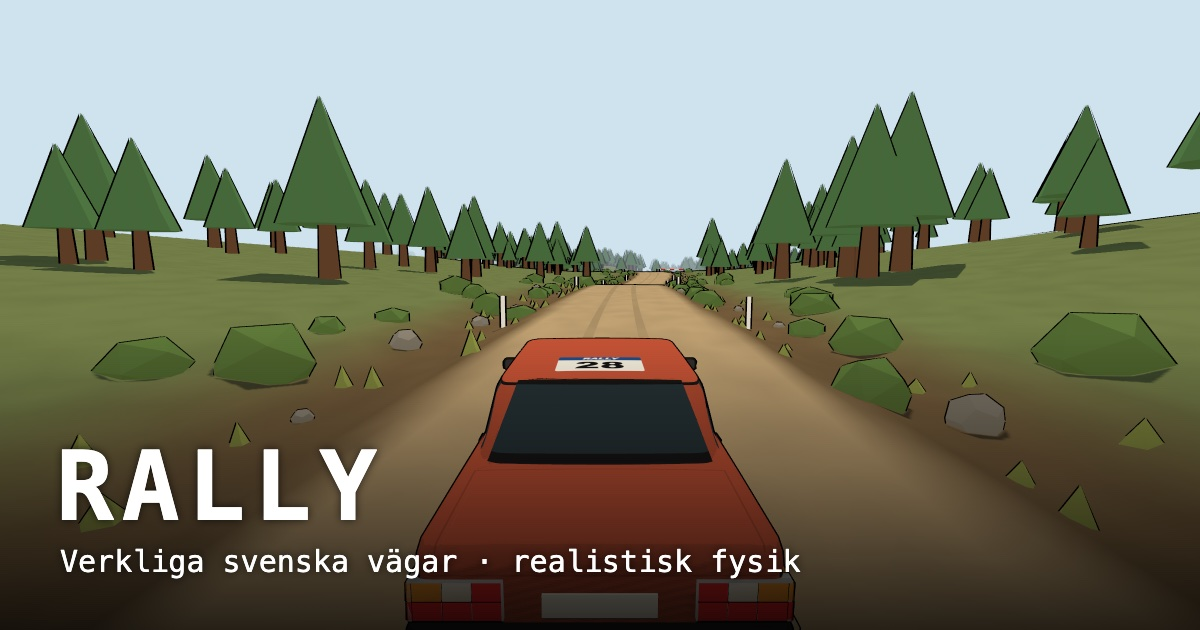
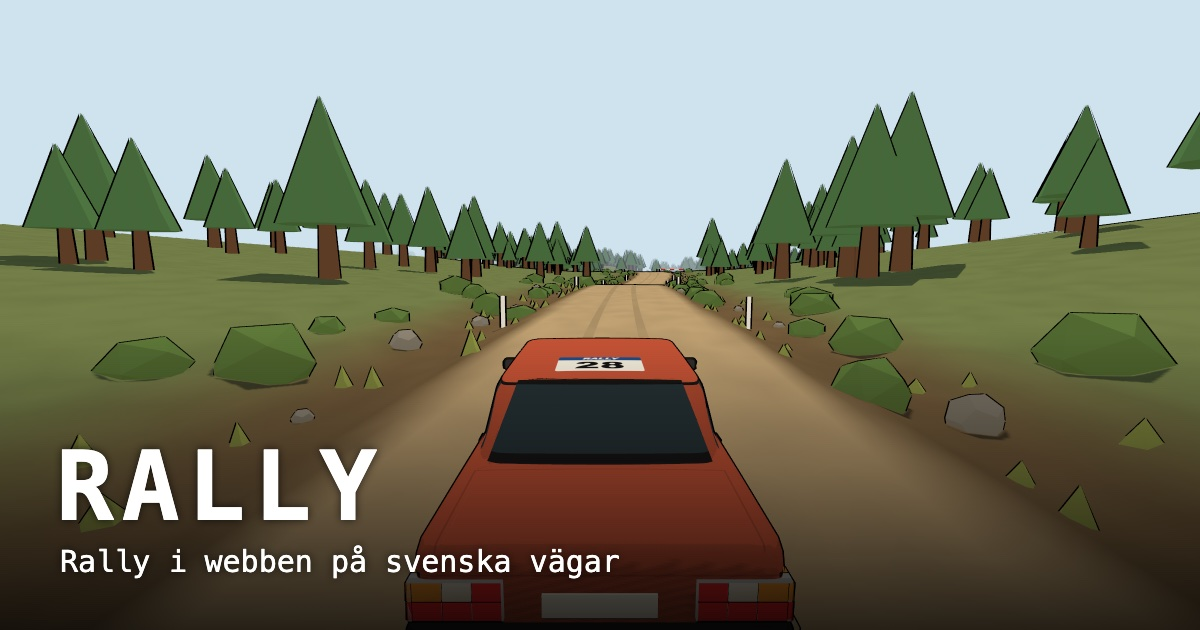
feat: use "Rally i webben på svenska vägar" as the shared link's tagline

Changed region(s): [[0.0308, 0.8746, 0.6783, 0.9349]]

diff --git a/index.html b/index.html
@@ -10,7 +10,7 @@
     <meta property="og:site_name" content="Rally" />
     <meta property="og:locale" content="sv_SE" />
     <meta property="og:url" content="https://www.auner.se/rally-sim/" />
-    <meta property="og:title" content="Rally – rallysimulator i webbläsaren" />
+    <meta property="og:title" content="Rally i webben på svenska vägar" />
     <meta property="og:description" content="Kör verkliga svenska grus- och isvägar med realistisk fysik. Gör karriär, köp bilar och vinn mästerskap. Gratis, direkt i webbläsaren." />
     <meta property="og:image" content="https://www.auner.se/rally-sim/og.jpg" />
     <meta property="og:image:width" content="1200" />
